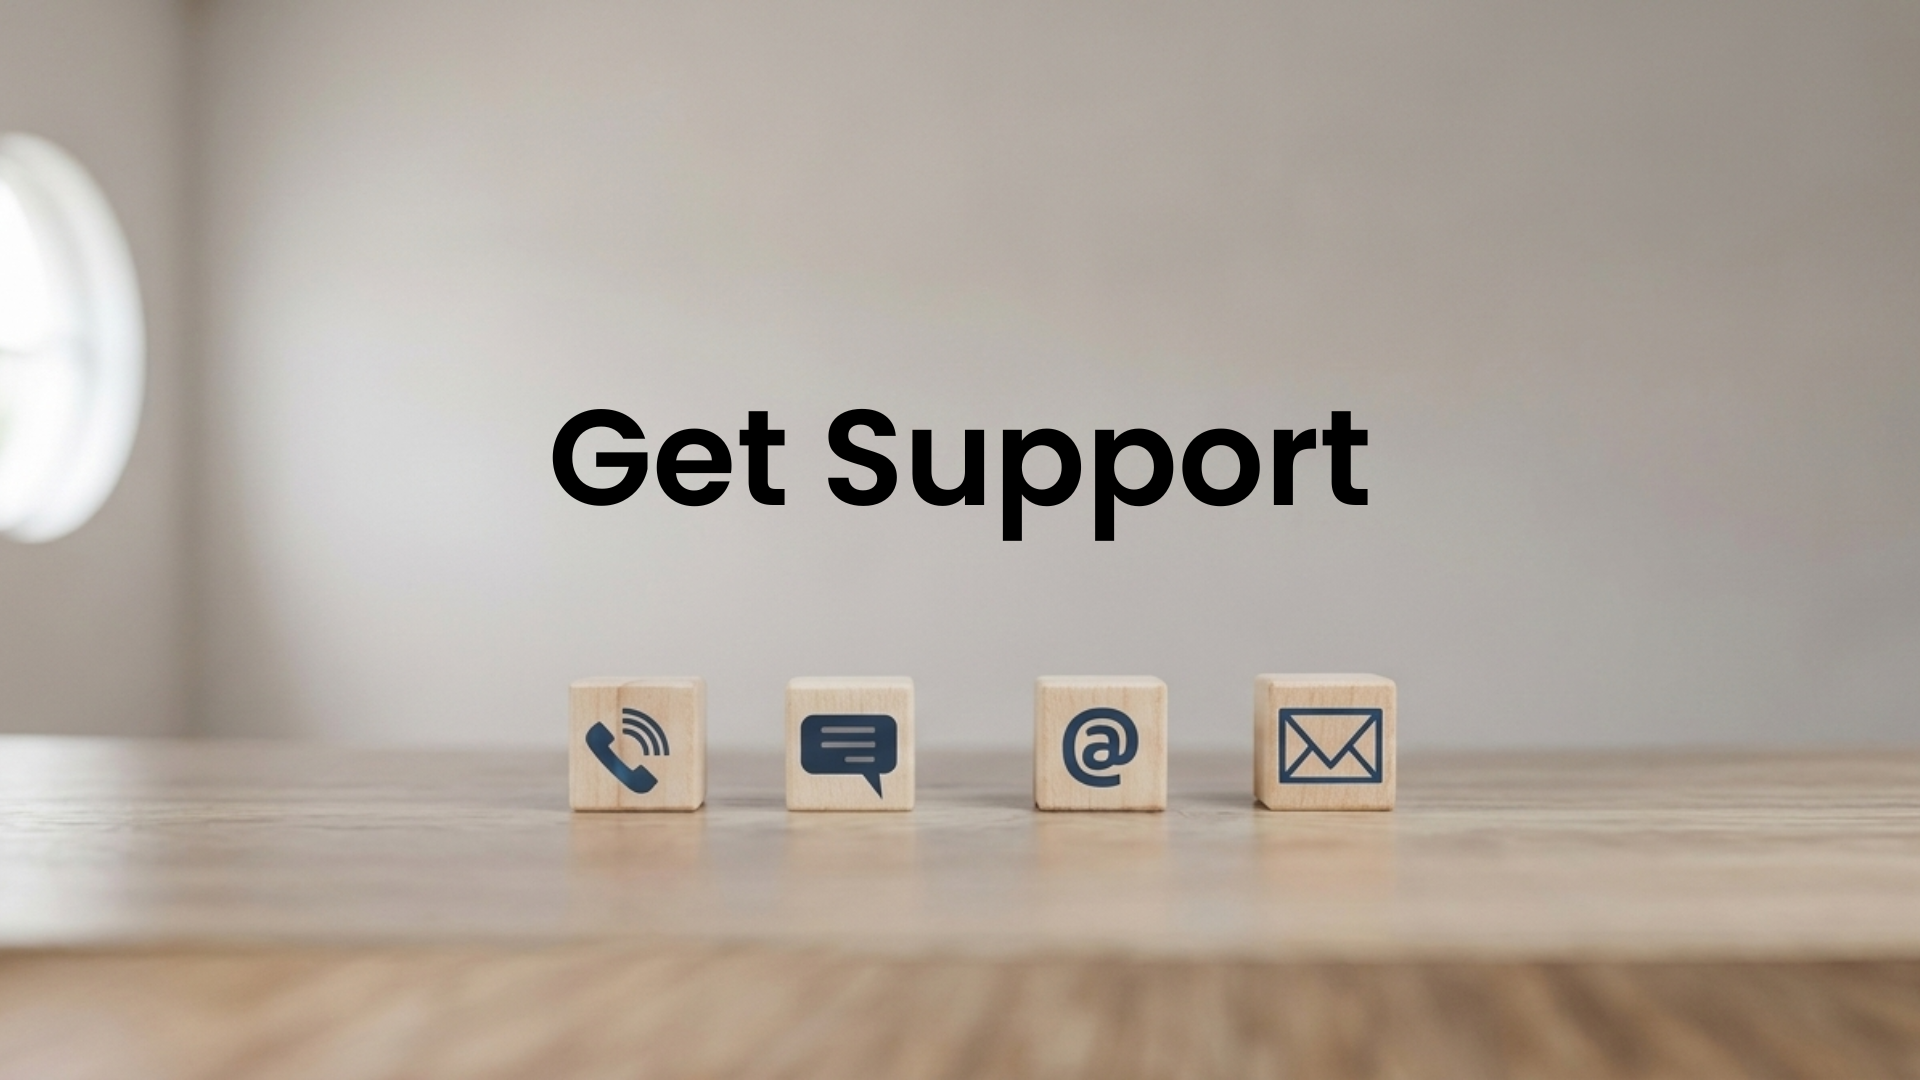
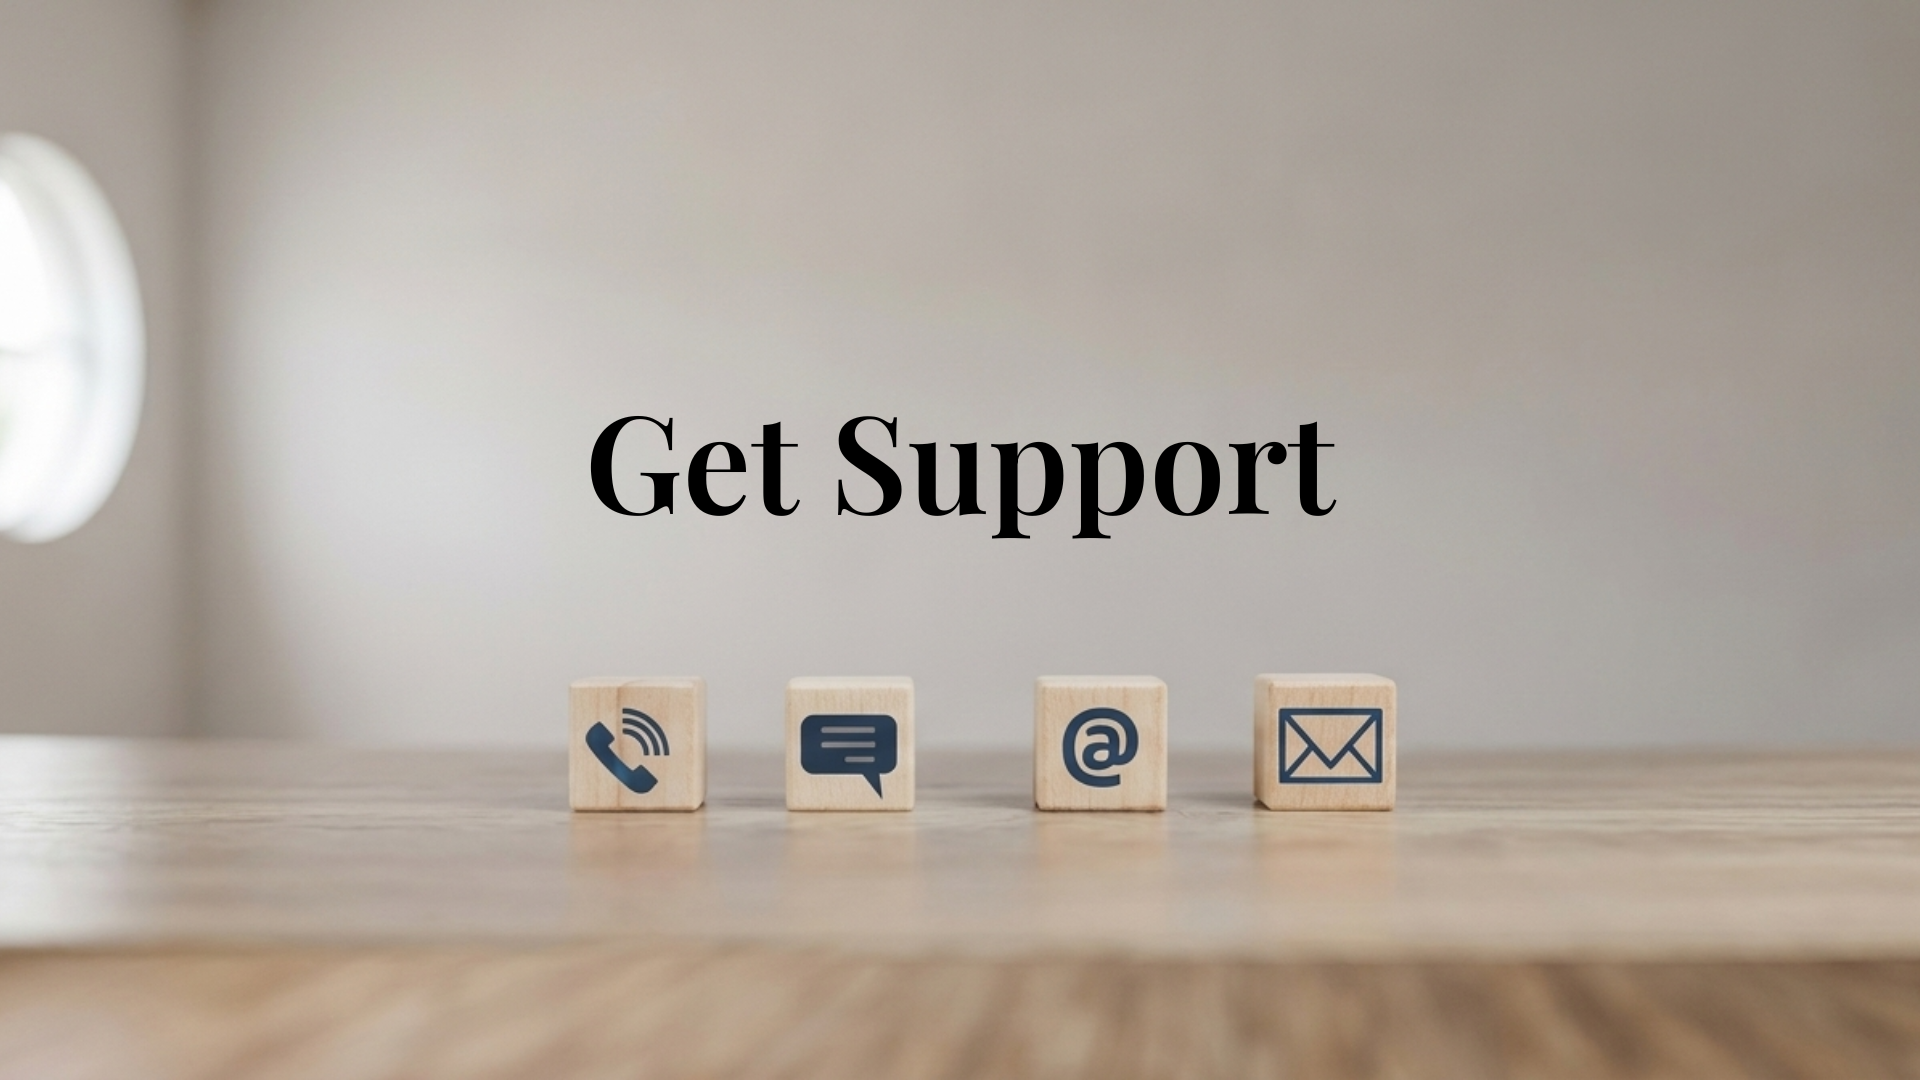
Add large file

Changed region(s): [[0.2812, 0.3667, 0.7188, 0.5194]]

diff --git a/js/main.js b/js/main.js
@@ -12,24 +12,129 @@ document.addEventListener('DOMContentLoaded', () => {
   const year = document.querySelector('[data-year]');
   if (year) year.textContent = new Date().getFullYear();
 
-  const forms = document.querySelectorAll('form[data-inquiry]');
-  forms.forEach(form => {
-    form.addEventListener('submit', e => {
-      e.preventDefault();
-      const status = form.querySelector('.form-status');
-      if (!form.checkValidity()) {
-        form.reportValidity();
-        return;
-      }
-      const data = Object.fromEntries(new FormData(form).entries());
-      console.log('Tarankan inquiry:', data);
-      if (status) {
-        status.textContent = 'Thank you. Your inquiry has been recorded on this demo site. Connect this form to your email/backend before launch.';
-        status.style.marginTop = '15px';
-      }
-      form.reset();
+//   const forms = document.querySelectorAll('form[data-inquiry]');
+//   forms.forEach(form => {
+//     form.addEventListener('submit', e => {
+//       e.preventDefault();
+//       const status = form.querySelector('.form-status');
+//       if (!form.checkValidity()) {
+//         form.reportValidity();
+//         return;
+//       }
+//       const data = Object.fromEntries(new FormData(form).entries());
+//       console.log('Tarankan inquiry:', data);
+//       if (status) {
+//         status.textContent = 'Thank you. Your inquiry has been recorded on this demo site. Connect this form to your email/backend before launch.';
+//         status.style.marginTop = '15px';
+//       }
+//       form.reset();
+//     });
+//   });
+
+    const forms = document.querySelectorAll('form[data-inquiry]');
+
+forms.forEach(form => {
+
+    form.addEventListener('submit', async e => {
+
+        e.preventDefault();
+
+        const status = form.querySelector('.form-status');
+        const submitButton = form.querySelector('button[type="submit"]');
+
+        if (!form.checkValidity()) {
+            form.reportValidity();
+            return;
+        }
+
+
+        if (status) {
+            status.textContent = 'Sending your inquiry...';
+            status.style.marginTop = '15px';
+        }
+
+
+        if (submitButton) {
+            submitButton.disabled = true;
+            submitButton.textContent = 'Sending...';
+        }
+
+
+        const formData = new FormData(form);
+
+
+        /*
+         * Automatically tell PHP which page submitted
+         * the inquiry.
+         */
+        formData.append(
+            'source_page',
+            window.location.pathname
+        );
+
+
+        try {
+
+            const response = await fetch(
+                'send-inquiry.php',
+                {
+                    method: 'POST',
+                    body: formData
+                }
+            );
+
+
+            const result = await response.json();
+
+
+            if (!response.ok || !result.success) {
+
+                throw new Error(
+                    result.message ||
+                    'Unable to send inquiry.'
+                );
+            }
+
+
+            if (status) {
+                status.textContent =
+                    result.message;
+
+                status.style.marginTop = '15px';
+            }
+
+
+            form.reset();
+
+
+        } catch (error) {
+
+            console.error(
+                'Inquiry error:',
+                error
+            );
+
+
+            if (status) {
+                status.textContent =
+                    error.message ||
+                    'Something went wrong. Please try again.';
+
+                status.style.marginTop = '15px';
+            }
+
+        } finally {
+
+            if (submitButton) {
+                submitButton.disabled = false;
+                submitButton.textContent = 'Send Inquiry';
+            }
+
+        }
+
     });
-  });
+
+});
 
   document.querySelectorAll('[data-reveal]').forEach(el => {
     const io = new IntersectionObserver(entries => {

diff --git a/contact.html b/contact.html
@@ -45,7 +45,7 @@
                     <p><a href="mailto:info@tarankanexim.com">info@tarankanexim.com</a><br><a
                             href="mailto:tarankanllp016@gmail.com">tarankanllp016@gmail.com</a></p>
                     <div class="eyebrow" style="margin-top:30px">Phone</div>
-                    <p><a href="tel:+91 9136834013">+9191368 34013</a></p>
+                    <p><a href="tel:+91 9136834013">+91 91368 34013</a></p>
                 </div>
                 <div class="visual"><img src="assets/contact/factory.png" alt="Tarankan Exim factory" class="visual-image"></div>
             </div>
@@ -119,7 +119,7 @@
 
                             <p>
                                 <a href="tel:+91 9136834013">
-                                    +9191368 34013
+                                    +91 91368 34013
                                 </a>
                             </p>
 
@@ -324,7 +324,7 @@
 
                 <p>
                     <a href="tel:+91 9136834013">
-                        +9191368 34013
+                        +91 91368 34013
                     </a>
                 </p>
 
@@ -497,7 +497,7 @@
             <div>
                 <div class="eyebrow">Contact</div>
                 <div class="footer-links"><a href="mailto:info@tarankanexim.com">info@tarankanexim.com</a><a
-                        href="tel:+91 9136834013">+9191368 34013</a><span>Ahmednagar, Maharashtra · India</span></div>
+                        href="tel:+91 9136834013">+91 91368 34013</a><span>Ahmednagar, Maharashtra · India</span></div>
             </div>
         </div>
         <div class="container footer-bottom"><span>© <span data-year></span> Tarankan Exim LLP. All Rights
@@ -583,7 +583,7 @@
                     </a>
 
                     <a href="tel:+91 9136834013">
-                        +9191368 34013
+                        +91 91368 34013
                     </a>
 
                     <span>

diff --git a/inquiry.html b/inquiry.html
@@ -36,8 +36,7 @@
                     <h2>Product. Quantity. Destination.</h2>
                     <p class="body-copy">Please include product specifications, preferred standards, packaging
                         requirements and target destination where known.</p>
-                    <p class="form-note">Demo form: submissions are logged in the browser console until a real
-                        backend/email endpoint is connected.</p>
+                    <p class="form-note"></p>
                 </div>
                 <form data-inquiry>
                     <div class="field"><label for="name">Full Name *</label><input id="name" name="name" required></div>
@@ -84,7 +83,7 @@
             <div>
                 <div class="eyebrow">Contact</div>
                 <div class="footer-links"><a href="mailto:info@tarankanexim.com">info@tarankanexim.com</a><a
-                        href="tel:+91 9136834013">+9191368 34013</a><span>Ahmednagar, Maharashtra · India</span></div>
+                        href="tel:+91 9136834013">+91 91368 34013</a><span>Ahmednagar, Maharashtra · India</span></div>
             </div>
         </div>
         <div class="container footer-bottom"><span>© <span data-year></span> Tarankan Exim LLP. All Rights
@@ -170,7 +169,7 @@
                     </a>
 
                     <a href="tel:+91 9136834013">
-                        +9191368 34013
+                        +91 91368 34013
                     </a>
 
                     <span>

diff --git a/products.html b/products.html
@@ -253,7 +253,8 @@
 
                     <div class="eyebrow">Typical Workflow</div>
 
-                    <h2>Simple process. Clear checkpoints</h2>
+                    <h2>Simple process</h2>
+                        <h2>Clear checkpoints</h2>
 
                     <ol class="clean-list workflow-list">
 
@@ -399,7 +400,7 @@
             <div>
                 <div class="eyebrow">Contact</div>
                 <div class="footer-links"><a href="mailto:info@tarankanexim.com">info@tarankanexim.com</a><a
-                        href="tel:+91 9136834013">+9191368 34013</a><span>Ahmednagar, Maharashtra · India</span></div>
+                        href="tel:+91 9136834013">+91 91368 34013</a><span>Ahmednagar, Maharashtra · India</span></div>
             </div>
         </div>
         <div class="container footer-bottom"><span>© <span data-year></span> Tarankan Exim LLP. All Rights
@@ -485,7 +486,7 @@
                     </a>
 
                     <a href="tel:+91 9136834013">
-                        +9191368 34013
+                        +91 91368 34013
                     </a>
 
                     <span>

diff --git a/index.html b/index.html
@@ -244,7 +244,7 @@
             <div>
                 <div class="eyebrow">Contact</div>
                 <div class="footer-links"><a href="mailto:info@tarankanexim.com">info@tarankanexim.com</a><a
-                        href="tel:+91 9136834013">+9191368 34013</a><span>Ahmednagar, Maharashtra · India</span></div>
+                        href="tel:+91 9136834013">+91 91368 34013</a><span>Ahmednagar, Maharashtra · India</span></div>
             </div>
         </div>
         <div class="container footer-bottom"><span>© <span data-year></span> Tarankan Exim LLP. All Rights
@@ -330,7 +330,7 @@
                     </a>
 
                     <a href="tel:+91 9136834013">
-                        +9191368 34013
+                        +91 91368 34013
                     </a>
 
                     <span>

diff --git a/markets.html b/markets.html
@@ -141,7 +141,7 @@
             <div>
                 <div class="eyebrow">Contact</div>
                 <div class="footer-links"><a href="mailto:info@tarankanexim.com">info@tarankanexim.com</a><a
-                        href="tel:+91 9136834013">+9191368 34013</a><span>Ahmednagar, Maharashtra · India</span></div>
+                        href="tel:+91 9136834013">+91 91368 34013</a><span>Ahmednagar, Maharashtra · India</span></div>
             </div>
         </div>
         <div class="container footer-bottom"><span>© <span data-year></span> Tarankan Exim LLP. All Rights
@@ -227,7 +227,7 @@
                     </a>
 
                     <a href="tel:+91 9136834013">
-                        +9191368 34013
+                        +91 91368 34013
                     </a>
 
                     <span>

diff --git a/quality.html b/quality.html
@@ -309,7 +309,7 @@
             <div>
                 <div class="eyebrow">Contact</div>
                 <div class="footer-links"><a href="mailto:info@tarankanexim.com">info@tarankanexim.com</a><a
-                        href="tel:+91 9136834013">+9191368 34013</a><span>Ahmednagar, Maharashtra · India</span></div>
+                        href="tel:+91 9136834013">+91 91368 34013</a><span>Ahmednagar, Maharashtra · India</span></div>
             </div>
         </div>
         <div class="container footer-bottom"><span>© <span data-year></span> Tarankan Exim LLP. All Rights
@@ -395,7 +395,7 @@
                     </a>
 
                     <a href="tel:+91 9136834013">
-                        +9191368 34013
+                        +91 91368 34013
                     </a>
 
                     <span>

diff --git a/services.html b/services.html
@@ -107,7 +107,7 @@
             <div>
                 <div class="eyebrow">Contact</div>
                 <div class="footer-links"><a href="mailto:info@tarankanexim.com">info@tarankanexim.com</a><a
-                        href="tel:+91 9136834013">+9191368 34013</a><span>Ahmednagar, Maharashtra · India</span></div>
+                        href="tel:+91 9136834013">+91 91368 34013</a><span>Ahmednagar, Maharashtra · India</span></div>
             </div>
         </div>
         <div class="container footer-bottom"><span>© <span data-year></span> Tarankan Exim LLP. All Rights
@@ -193,7 +193,7 @@
                     </a>
 
                     <a href="tel:+91 9136834013">
-                        +9191368 34013
+                        +91 91368 34013
                     </a>
 
                     <span>

diff --git a/privacy.html b/privacy.html
@@ -70,7 +70,7 @@
             <div>
                 <div class="eyebrow">Contact</div>
                 <div class="footer-links"><a href="mailto:info@tarankanexim.com">info@tarankanexim.com</a><a
-                        href="tel:+91 9136834013">+9191368 34013</a><span>Ahmednagar, Maharashtra · India</span></div>
+                        href="tel:+91 9136834013">+91 91368 34013</a><span>Ahmednagar, Maharashtra · India</span></div>
             </div>
         </div>
         <div class="container footer-bottom"><span>© <span data-year></span> Tarankan Exim LLP. All Rights
@@ -156,7 +156,7 @@
                     </a>
 
                     <a href="tel:+91 9136834013">
-                        +9191368 34013
+                        +91 91368 34013
                     </a>
 
                     <span>

diff --git a/terms.html b/terms.html
@@ -71,7 +71,7 @@
             <div>
                 <div class="eyebrow">Contact</div>
                 <div class="footer-links"><a href="mailto:info@tarankanexim.com">info@tarankanexim.com</a><a
-                        href="tel:+91 9136834013">+9191368 34013</a><span>Ahmednagar, Maharashtra · India</span></div>
+                        href="tel:+91 9136834013">+91 91368 34013</a><span>Ahmednagar, Maharashtra · India</span></div>
             </div>
         </div>
         <div class="container footer-bottom"><span>© <span data-year></span> Tarankan Exim LLP. All Rights
@@ -157,7 +157,7 @@
                     </a>
 
                     <a href="tel:+91 9136834013">
-                        +9191368 34013
+                        +91 91368 34013
                     </a>
 
                     <span>

diff --git a/about.html b/about.html
@@ -118,7 +118,7 @@
             <div>
                 <div class="eyebrow">Contact</div>
                 <div class="footer-links"><a href="mailto:info@tarankanexim.com">info@tarankanexim.com</a><a
-                        href="tel:+91 9136834013">+9191368 34013</a><span>Ahmednagar, Maharashtra · India</span></div>
+                        href="tel:+91 9136834013">+91 91368 34013</a><span>Ahmednagar, Maharashtra · India</span></div>
             </div>
         </div>
         <div class="container footer-bottom"><span>© <span data-year></span> Tarankan Exim LLP. All Rights
